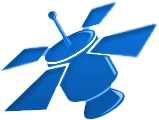
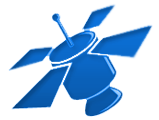
Modified host's image

Changed region(s): [[0.0, 0.0, 1.0, 1.0]]

diff --git a/routes/satellites.js b/routes/satellites.js
@@ -1,6 +1,7 @@
 var express = require('express');
 var router = express.Router();
 var identifier = require('../utility/identify.js');
+var settings = require('../settings.js');
 var Users = require('./users.js');
 var Task = require('../models/task.js');
 
@@ -25,7 +26,8 @@ router.get('/', function (req, res) {
 			ip: satellite,
 			lastBeat: beatTime,
 			latency: Satellite.latency[satellite] || -1,
-			paused: Satellite.pause[satellite] ? true : false
+			paused: Satellite.pause[satellite] ? true : false,
+			isHost: satellite == settings.hostIP
 		});
 	});
 	res.status(200);

diff --git a/public/css/main.css b/public/css/main.css
@@ -233,7 +233,10 @@ div.satellite {
 	margin: 10px 0;
 
 	background: url(../images/satellite.png) no-repeat center left;
-	background-size: 80px 50px;
+	background-size: 80px 60px;
+}
+div.satellite.host {
+	background-image: url(../images/host.png);
 }
 div.satellite div,ip {
 	font-size: 20px;

diff --git a/public/scripts/views/satelliteView.js b/public/scripts/views/satelliteView.js
@@ -39,6 +39,11 @@ var SatelliteView = Backbone.View.extend({
 		} else {
 			this.$el.removeClass('paused');
 		}
+		if (satellite.get('isHost')) {
+			this.$el.addClass('host');
+		} else {
+			this.$el.removeClass('host');
+		}
 		return this;
 	},
 

diff --git a/public/scripts/models/satellite.js b/public/scripts/models/satellite.js
@@ -5,6 +5,7 @@ app.Satellite = Backbone.Model.extend({
 	defaults: {
 		ip: '',
 		paused: false,
+		isHost: false,
 		lastBeat: 0,
 		latency: -1
 	},
